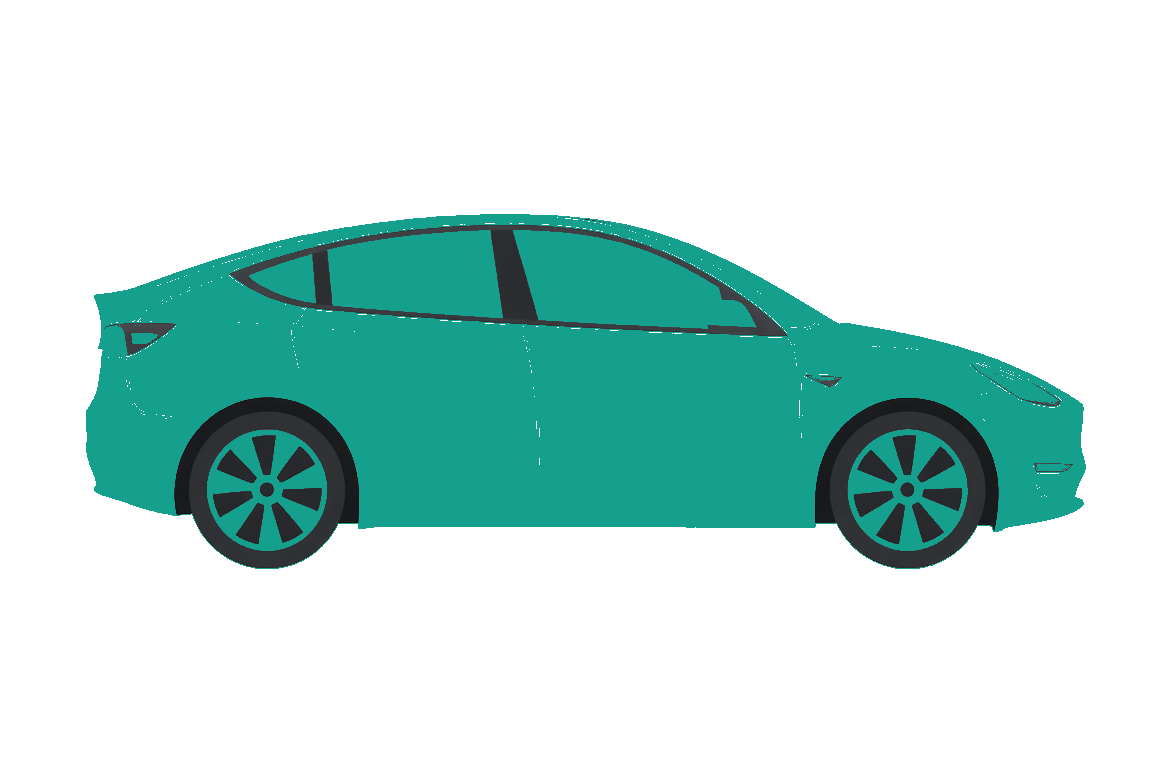
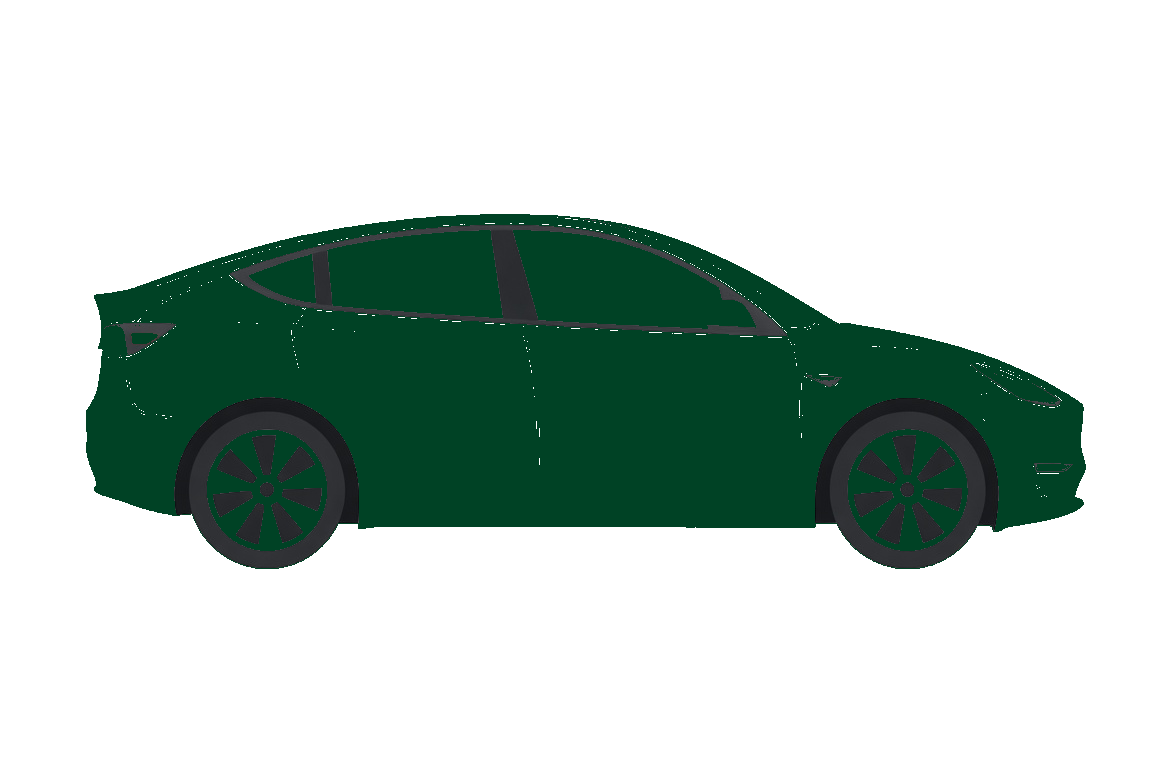
Bigger Jaguar green progress car (v2.0.73)

Changed region(s): [[0.0616, 0.2755, 0.9555, 0.7041]]

diff --git a/travel_assistant/frontend/src/components/Dashboard.jsx b/travel_assistant/frontend/src/components/Dashboard.jsx
@@ -14,8 +14,8 @@ function TeslaBar({ progress, base, dark }) {
       <img
         src={asset(base, dark ? "/static/react/tesla-y-white.png" : "/static/react/tesla-y-green.png")}
         alt=""
-        className="absolute top-1/2 -translate-y-1/2 w-24 h-14 object-contain drop-shadow-lg transition-all"
-        style={{ left: `calc(${pct}% - 72px)` }}
+        className="absolute top-1/2 -translate-y-1/2 w-32 h-20 object-contain drop-shadow-lg transition-all"
+        style={{ left: `calc(${pct}% - 96px)` }}
       />
       <span className="absolute left-3 top-1/2 -translate-y-1/2 text-xs font-medium text-white">{pct}%</span>
     </div>
